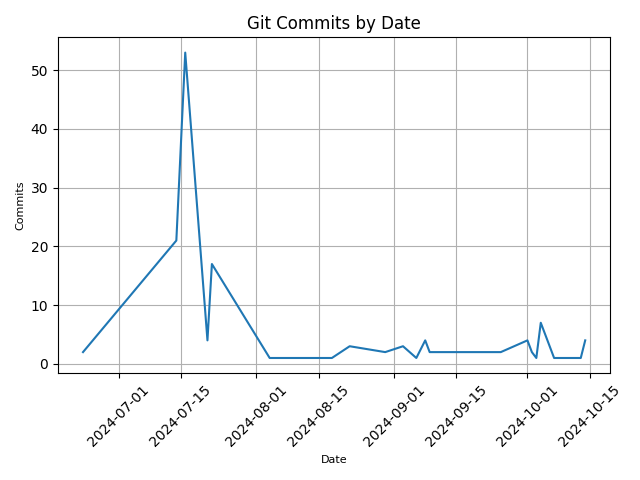
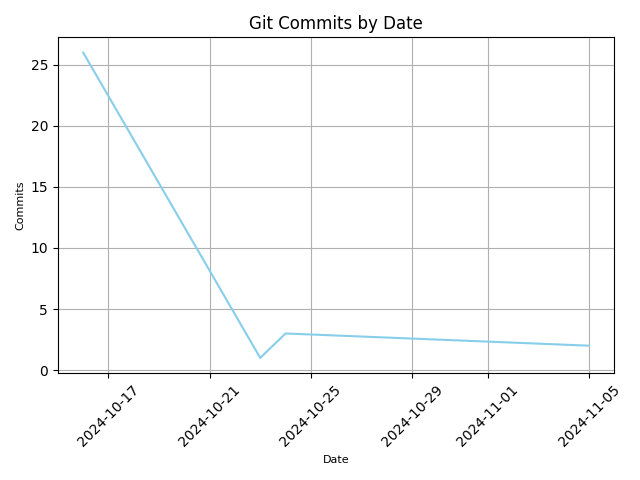
Update run.py

diff --git a/run.py b/run.py
@@ -10,7 +10,7 @@ def main(style):
     df.set_index("date", inplace=True)
 
     if style == "plot":
-        plt.plot(df.index, df["num"])
+        plt.plot(df.index, df["num"], color="skyblue")
     elif style == "bar":
         plt.bar(df.index, df["num"], color="skyblue")
     else:
